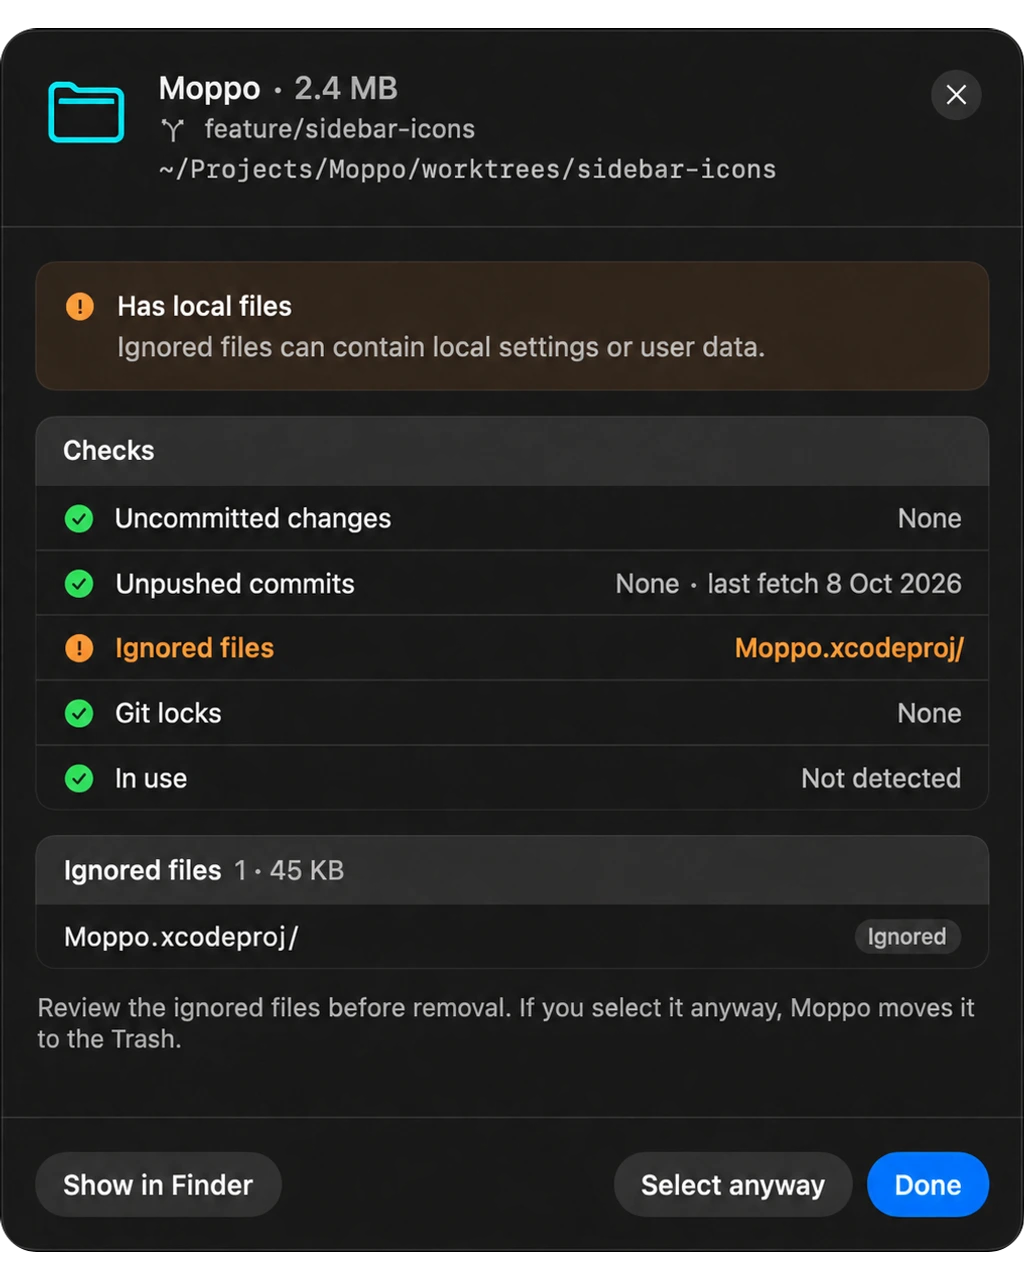
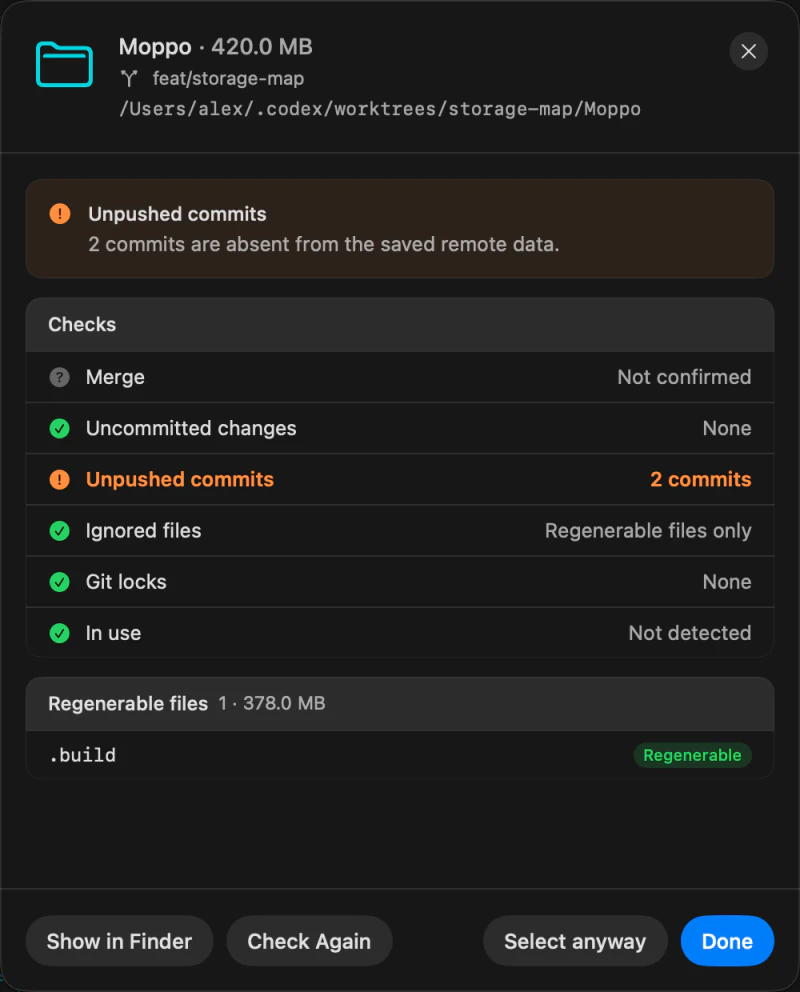
Refresh Moppo worktree screenshots and add striped frame (#5)

diff --git a/components/apps/moppo-detail.module.css b/components/apps/moppo-detail.module.css
@@ -35,11 +35,16 @@
 .mascot { display: block; width: 70px; height: 60px; margin: 0 auto 1.5rem; }
 .reviewGrid { display: grid; grid-template-columns: 1fr 1fr; align-items: center; gap: 4rem; max-width: 56rem; margin: 3.5rem auto 0; }
 .dialog { display: grid; place-items: center; width: 100%; max-width: 400px; aspect-ratio: 4 / 5; justify-self: center; }
-.dialogFrame { width: 100%; padding: 10px; border-radius: 23px; background: var(--surface); box-shadow: 0 6px 18px rgb(0 0 0 / .07); }
-.dialogCrop { position: relative; overflow: hidden; border-radius: 13px; }
-.dialogLight { aspect-ratio: 1024 / 1152; --dialog-offset: -5%; }
-.dialogDark { aspect-ratio: 1024 / 1224; --dialog-offset: -2.1875%; }
-.dialogCrop .screenshot { position: absolute; inset: 0 auto auto 0; width: 100%; height: auto; transform: translateY(var(--dialog-offset)); }
+.dialogFrame {
+  width: 100%;
+  padding: 10px;
+  border-radius: 23px;
+  background:
+    repeating-linear-gradient(135deg, color-mix(in srgb, var(--foreground) 12%, transparent) 0 1px, transparent 1px 7px),
+    var(--surface);
+  box-shadow: 0 6px 18px rgb(0 0 0 / .07);
+}
+.dialogCrop { overflow: hidden; border-radius: 13px; }
 .reviewPoints { align-self: center; }
 @media (max-width: 767px) {
   .heading { padding-top: 3rem; }

diff --git a/lib/dictionaries/fr.ts b/lib/dictionaries/fr.ts
@@ -39,7 +39,7 @@ export const dictionary: Dictionary = {
     review: {
       title: "Sait ce qu’il ne faut pas toucher.",
       body: "Les worktrees Git avec des modifications non commitées, les fichiers utilisés par des apps en cours d’exécution et vos documents personnels méritent un examen attentif. Moppo les signale pour vérification avant toute suppression.",
-      shotAlt: "Le dialogue de vérification des worktrees de Moppo signale les fichiers locaux et vérifie les modifications, les commits non envoyés, les verrous Git et les worktrees utilisés.",
+      shotAlt: "Le dialogue de vérification des worktrees de Moppo signale deux commits non envoyés et vérifie la fusion, les modifications locales, les fichiers ignorés, les verrous Git et les worktrees utilisés.",
       points: [
         { title: "Comprend Git.", body: "Les worktrees avec des modifications non commitées, des commits non envoyés ou des fichiers locaux ignorés sont signalés pour vérification." },
         { title: "En cours d’utilisation ? On attend.", body: "Les fichiers et worktrees utilisés par une app ou un processus actif sont signalés, pour que vous puissiez d’abord le quitter." },

diff --git a/components/apps/moppo-detail.tsx b/components/apps/moppo-detail.tsx
@@ -58,11 +58,10 @@ function WorktreeScreenshot({ alt, className = "" }: { alt: string; className?: 
     {(["light", "dark"] as const).map((theme) => {
       const themeDisplay = theme === "light" ? "[display:var(--icon-light-display)]" : "[display:var(--icon-dark-display)]";
       return <div key={theme} className={`${styles.dialogFrame} ${themeDisplay}`}>
-        {/* Crop the transparent export margins so the frame has even padding. */}
-        <div className={`${styles.dialogCrop} ${theme === "light" ? styles.dialogLight : styles.dialogDark}`}>
+        <div className={styles.dialogCrop}>
           {/* Both images follow the shared CSS theme tokens, including system mode. */}
           {/* eslint-disable-next-line @next/next/no-img-element */}
-          <img src={`/moppo/worktree-${theme}.webp`} alt={alt} width={1024} height={1280} loading="lazy" decoding="async" className={styles.screenshot} />
+          <img src={`/moppo/worktree-${theme}.webp`} alt={alt} width={800} height={992} loading="lazy" decoding="async" className={styles.screenshot} />
         </div>
       </div>;
     })}

diff --git a/lib/dictionaries/es.ts b/lib/dictionaries/es.ts
@@ -41,7 +41,7 @@ export const dictionary: Dictionary = {
     review: {
       title: "Sabe qué no debe tocar.",
       body: "Los worktrees de Git con cambios sin commit, los archivos usados por apps en ejecución y tus documentos personales merecen una revisión. Moppo los señala para que los revises antes de eliminar nada.",
-      shotAlt: "El diálogo de revisión de worktrees de Moppo señala archivos locales y comprueba cambios, commits sin enviar, bloqueos de Git y worktrees en uso.",
+      shotAlt: "El diálogo de revisión de worktrees de Moppo señala dos commits sin enviar y comprueba la fusión, los cambios locales, los archivos ignorados, los bloqueos de Git y los worktrees en uso.",
       points: [
         { title: "Entiende Git.", body: "Los worktrees con cambios sin commit, commits sin enviar o archivos locales ignorados se señalan para su revisión." },
         { title: "¿En uso? No se toca.", body: "Los archivos y worktrees usados por una app o proceso activo se señalan para que puedas cerrarlo primero." },

diff --git a/lib/dictionaries/it.ts b/lib/dictionaries/it.ts
@@ -39,7 +39,7 @@ export const dictionary: Dictionary = {
     review: {
       title: "Sa cosa non toccare.",
       body: "I worktree Git con modifiche non incluse in un commit, i file usati da app in esecuzione e i tuoi documenti personali meritano un controllo. Moppo li segnala per una verifica prima che tu elimini qualcosa.",
-      shotAlt: "Il dialogo di controllo dei worktree di Moppo segnala file locali, modifiche non salvate in commit, commit non inviati, blocchi Git e worktree in uso.",
+      shotAlt: "Il dialogo di controllo dei worktree di Moppo segnala due commit non inviati e mostra i controlli su merge, modifiche locali, file ignorati, blocchi Git e worktree in uso.",
       points: [
         { title: "Conosce Git.", body: "I worktree con modifiche non salvate in commit, commit non inviati o file locali ignorati vengono segnalati per un controllo." },
         { title: "In uso? Non si tocca.", body: "I file e i worktree usati da un’app o un processo attivo vengono segnalati, così puoi prima chiuderli." },

diff --git a/lib/dictionaries/en.ts b/lib/dictionaries/en.ts
@@ -58,7 +58,7 @@ export const dictionary = {
     review: {
       title: "Knows what not to touch.",
       body: "Git worktrees with uncommitted changes, files used by running apps, and your personal documents deserve a closer look. Moppo flags them for review before you remove anything.",
-      shotAlt: "Moppo’s worktree review dialog flags local files and shows checks for uncommitted changes, unpushed commits, Git locks, and whether the worktree is in use.",
+      shotAlt: "Moppo’s worktree review dialog flags two unpushed commits and shows checks for merge status, local changes, ignored files, Git locks, and whether the worktree is in use.",
       points: [
         { title: "Git-aware.", body: "Worktrees with uncommitted changes, unpushed commits, or ignored local files are flagged for review." },
         { title: "In use? Hands off.", body: "Files and worktrees used by a running app or process are flagged, so you can quit it first." },

diff --git a/docs/moppo-assets.md b/docs/moppo-assets.md
@@ -19,9 +19,9 @@ cropped off (2360×1560 at 112,76), resized to 1800px wide and saved as WebP.
 Sidebar tool symbols, also used as the hero tab icons, are
 exported by `tools/export-moppo-symbols.swift`; Cleanup uses `MoppoFilled.svg`.
 
-The two worktree dialog assets were edited with the built-in image generation
-tool, then cropped, given clean rounded edges, and exported as WebP. Their
-header uses demo project and branch names. No surrounding app content ships.
+The two worktree dialog assets are cropped directly from the supplied light and
+dark screenshots and exported as WebP. No surrounding app content ships. The
+page clips their rounded corners and adds a diagonal striped frame.
 
 Final assets are saved in `public/moppo/`: the hero screenshots
 `{cleanup,storage,uninstaller,duplicates,dashboard}-{light,dark}.webp`, `worktree-light.webp`, `worktree-dark.webp`,
@@ -29,21 +29,16 @@ Final assets are saved in `public/moppo/`: the hero screenshots
 `hero-wallpaper.webp`, and `og-image.jpg`. Sidebar symbol
 exports are in `public/moppo/tools/`.
 
-## Dialog edit prompt
+## Worktree crops
 
-The same prompt was used for each theme, with that theme's supplied screenshot
-as the edit target and a transparent output background:
+Both source screenshots measure 2584 × 1858. The dialog crop starts at (792, 272)
+and measures 1000 × 1240. The exports are 800 × 992, keeping enough resolution
+for the 380px-wide dialog at 2× pixel density. The dark version is about 35 KB
+and the light version about 41 KB. Both use the same crop and have no CSS offsets.
 
-> Use case: text-localization and background-extraction. Asset type: light/dark
-> theme Moppo worktree review dialog for a website. Extract only the centered
-> rounded dialog, tightly cropped with transparent outside its rounded corners.
-> Remove the app behind it and all black margins. Preserve the original
-> typeface, borders, warnings, rows, spacing, buttons, and theme. Replace
-> “MacCleanerNative · 2.4 MB” with “Moppo · 2.4 MB”, the branch with
-> “feature/sidebar-icons”, and the path with
-> “~/Projects/Moppo/worktrees/sidebar-icons”. Keep the folder icon and close
-> button. Keep all other text the same. Do not add, remove, or redesign UI.
-> Produce just the dialog, crisp and without an outside shadow.
+```sh
+cwebp -crop 792 272 1000 1240 -resize 800 992 -q 90 -m 6 -sharp_yuv -metadata none input.png -o public/moppo/worktree-THEME.webp
+```
 
 ## Launch placeholders
 
